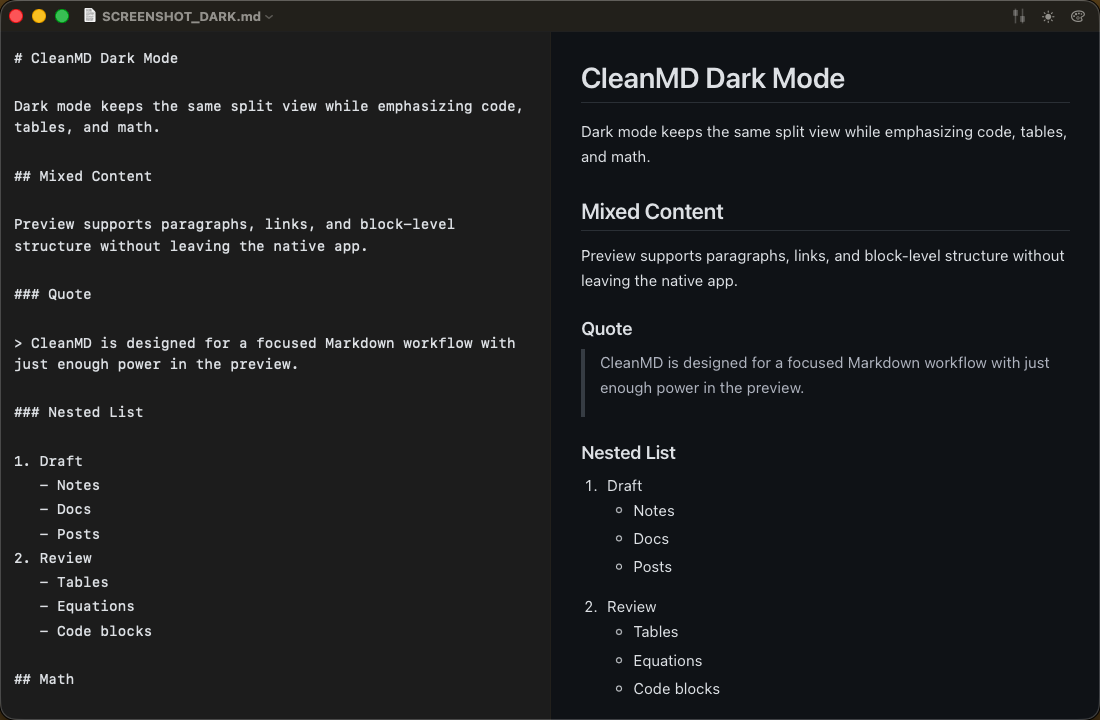
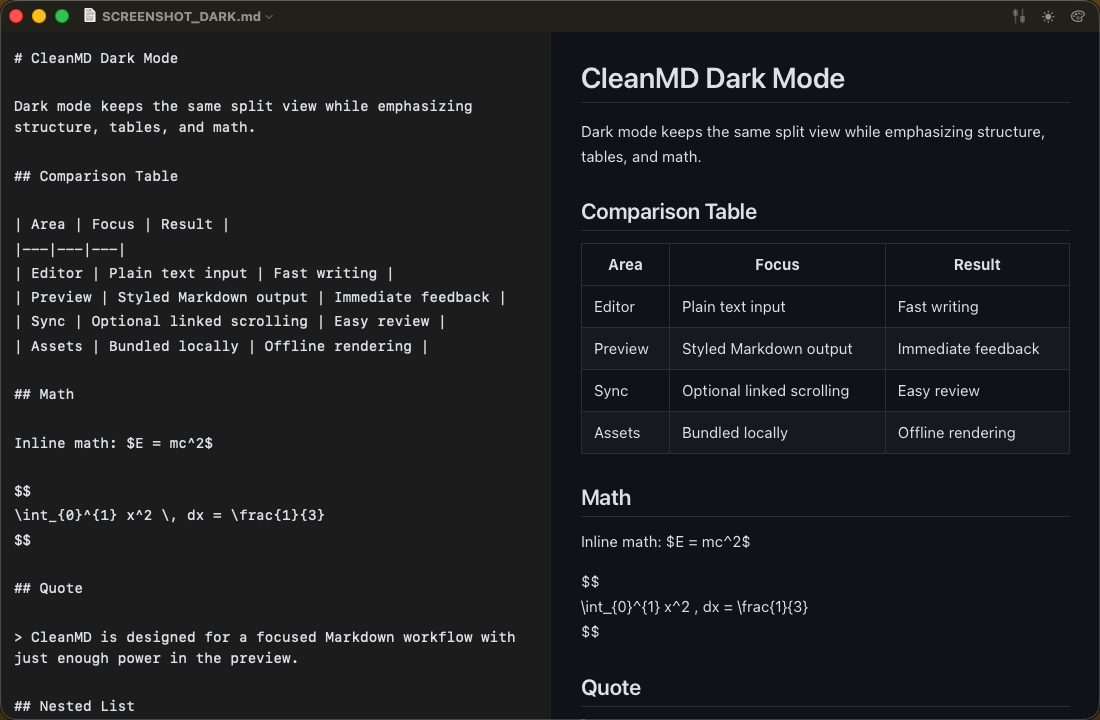
Improve screenshot fixtures for code and tables

diff --git a/SCREENSHOT_DARK.md b/SCREENSHOT_DARK.md
@@ -1,25 +1,15 @@
 # CleanMD Dark Mode
 
-Dark mode keeps the same split view while emphasizing code, tables, and math.
+Dark mode keeps the same split view while emphasizing structure, tables, and math.
 
-## Mixed Content
+## Comparison Table
 
-Preview supports paragraphs, links, and block-level structure without leaving the native app.
-
-### Quote
-
-> CleanMD is designed for a focused Markdown workflow with just enough power in the preview.
-
-### Nested List
-
-1. Draft
-   - Notes
-   - Docs
-   - Posts
-2. Review
-   - Tables
-   - Equations
-   - Code blocks
+| Area | Focus | Result |
+|---|---|---|
+| Editor | Plain text input | Fast writing |
+| Preview | Styled Markdown output | Immediate feedback |
+| Sync | Optional linked scrolling | Easy review |
+| Assets | Bundled locally | Offline rendering |
 
 ## Math
 
@@ -29,25 +19,17 @@ $$
 \int_{0}^{1} x^2 \, dx = \frac{1}{3}
 $$
 
-$$
-\nabla \cdot \vec{E} = \frac{\rho}{\varepsilon_0}
-$$
+## Quote
 
-## More Code
+> CleanMD is designed for a focused Markdown workflow with just enough power in the preview.
 
-```bash
-swift build -c release
-./build.sh
-```
+## Nested List
 
-## Comparison Table
+1. Draft
+   - Notes
+   - Docs
+2. Review
+   - Tables
+   - Equations
 
-| Area | Focus |
-|---|---|
-| Editor | Plain text input |
-| Preview | Styled Markdown output |
-| Sync | Optional linked scrolling |
-
----
-
-Use this document for the darker README screenshot that highlights equations and structure.
+Use this document for the dark README screenshot that highlights tables.

diff --git a/SCREENSHOT_LIGHT.md b/SCREENSHOT_LIGHT.md
@@ -2,26 +2,11 @@
 
 CleanMD keeps writing and preview side by side, with a layout that stays readable at a glance.
 
-## Text
+## Formatting
 
 This line shows **bold**, *italic*, ~~strikethrough~~, `inline code`, and a [project link](https://github.com/hosioobo/CleanMD).
 
 > Native, fast, and clean. The editor stays simple while the preview remains expressive.
-
-## Lists
-
-- Live preview
-- Offline bundled assets
-- Syntax highlighting
-- Math rendering
-
-1. Open a Markdown file
-2. Type in the editor
-3. Review the live preview
-
-- [x] Split editor and preview
-- [x] Markdown file support
-- [ ] Notarized release
 
 ## Code
 
@@ -32,24 +17,21 @@ struct DemoCard: View {
     var body: some View {
         Text("CleanMD")
             .font(.title2.bold())
-            .padding(.horizontal, 16)
-            .padding(.vertical, 10)
+            .padding()
     }
 }
 ```
 
 ```javascript
-const renderPreview = (markdown) => {
-  console.log(`Rendering ${markdown.length} characters`);
-};
+const renderPreview = markdown =>
+  console.log(markdown.length);
 ```
 
-## Table
+## Quick Notes
 
-| Feature | Status | Note |
-|---|---:|---|
-| Preview | Yes | Live while typing |
-| Code highlight | Yes | Offline bundled |
-| Math | Yes | KaTeX |
+- Live preview
+- Syntax highlighting
+- Offline bundled assets
+- Optional synchronized scrolling
 
-Use this document for the bright, text-heavy README screenshot.
+Use this document for the bright README screenshot that highlights code blocks.
